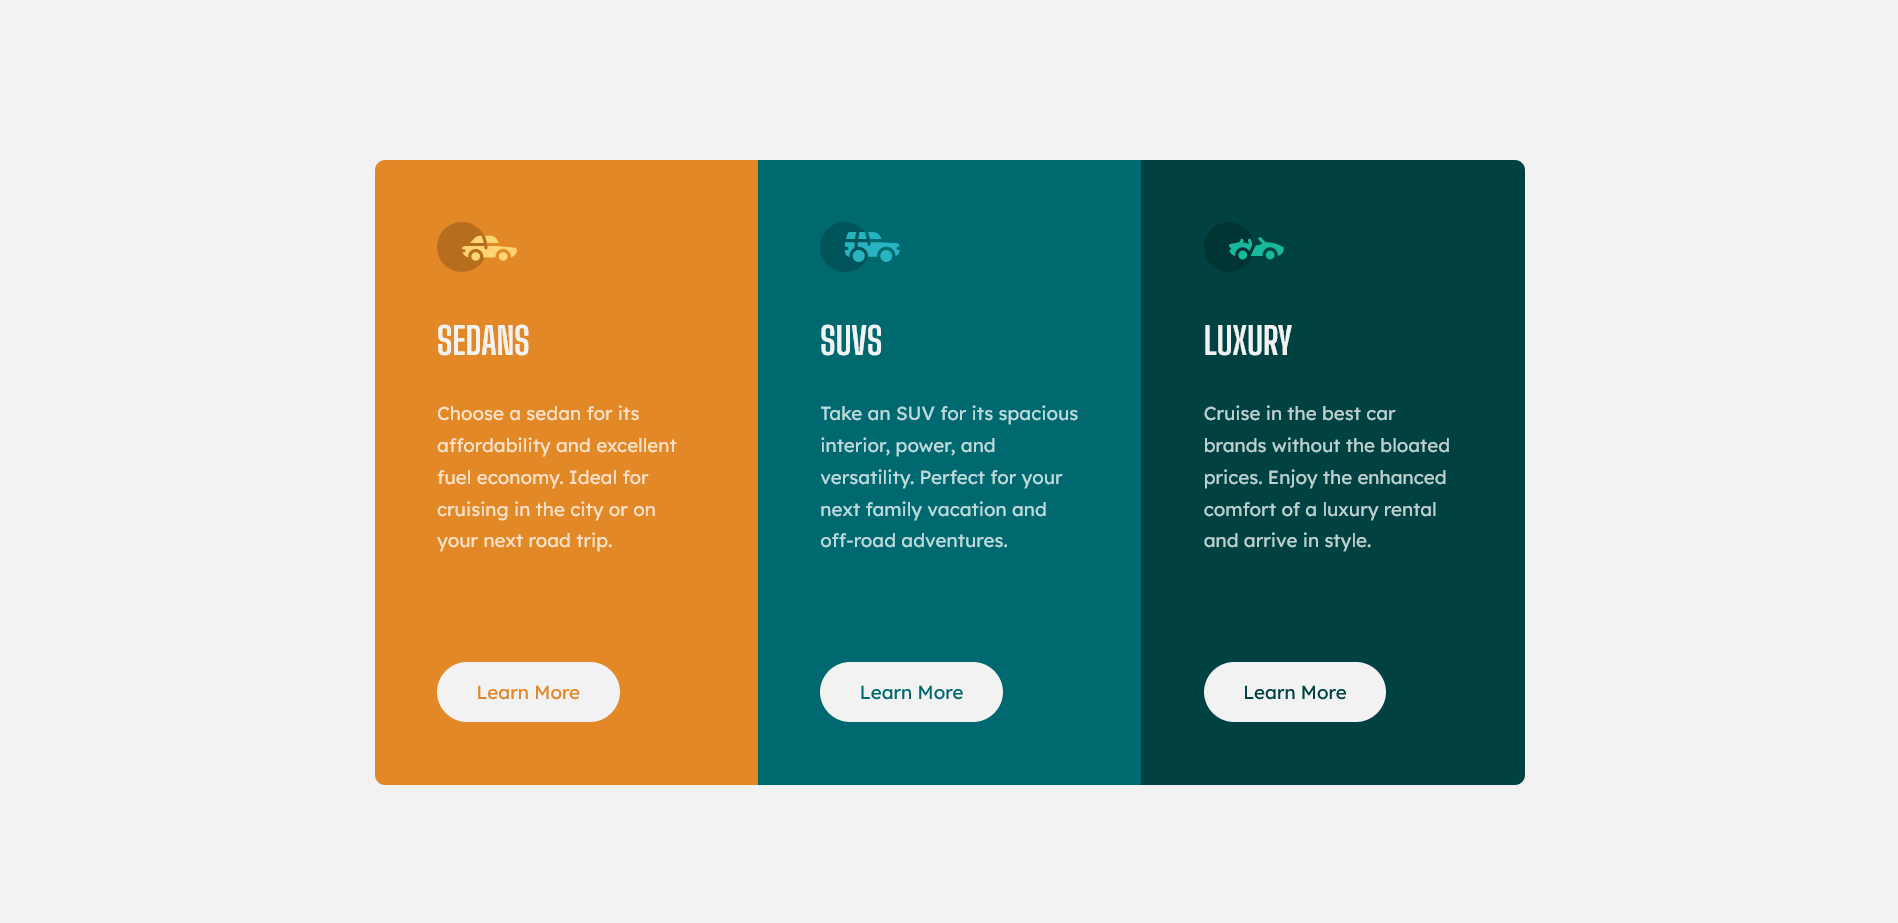
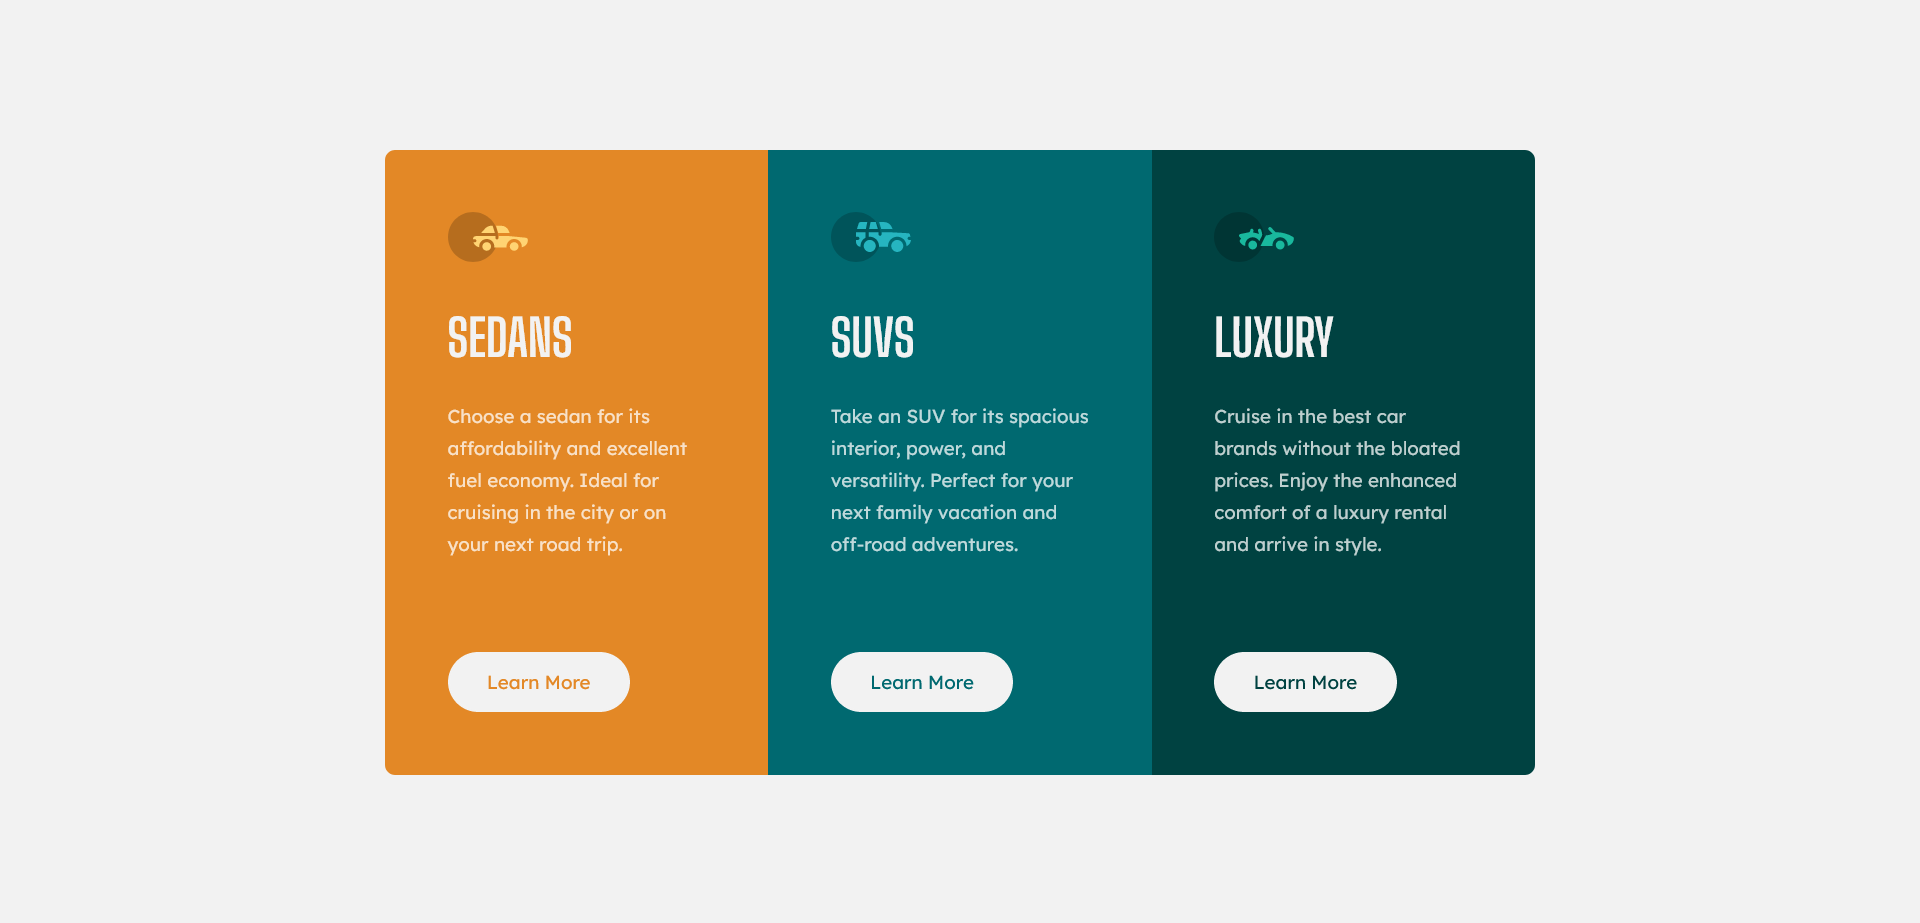
fix header font size

diff --git a/css/style.css b/css/style.css
@@ -8,7 +8,7 @@
     --very-light-gray: hsl(0, 0%, 95%);
 
     --text-font: 400 15px / 1.7em 'Lexend Deca', sans-serif;
-    --header-font: 700 200% / 1em 'Big Shoulders Display', cursive;
+    --header-font: 700 270% / 1em 'Big Shoulders Display', cursive;
 
     --sedans-icon: url('../images/icon-sedans.svg');
     --suvs-icon: url('../images/icon-suvs.svg');
@@ -32,6 +32,8 @@
 }
 
 body {
+    margin: 0;
+    padding: 0;
     min-height: 100vh;
     display: flex;
     flex-direction: column;
@@ -40,7 +42,7 @@ body {
 }
 
 .preview-card {
-    margin: 0 auto;
+    margin: 20px auto;
     justify-self: center;
     box-sizing: border-box;
     max-width: var(--component-width-mobile);

diff --git a/README.md b/README.md
@@ -23,9 +23,8 @@ Users should be able to:
 
 ### Screenshot
 
-![](./design/Screenshot-3-column-preview-card-component-mobile-1.png)
-![](./design/Screenshot-3-column-preview-card-component-mobile-2.png)
 ![](./design/Screenshot-3-column-preview-card-component-desktop.png)
+![](./design/Screenshot-3-column-preview-card-component-mobile.png)
 
 ### Links
 
